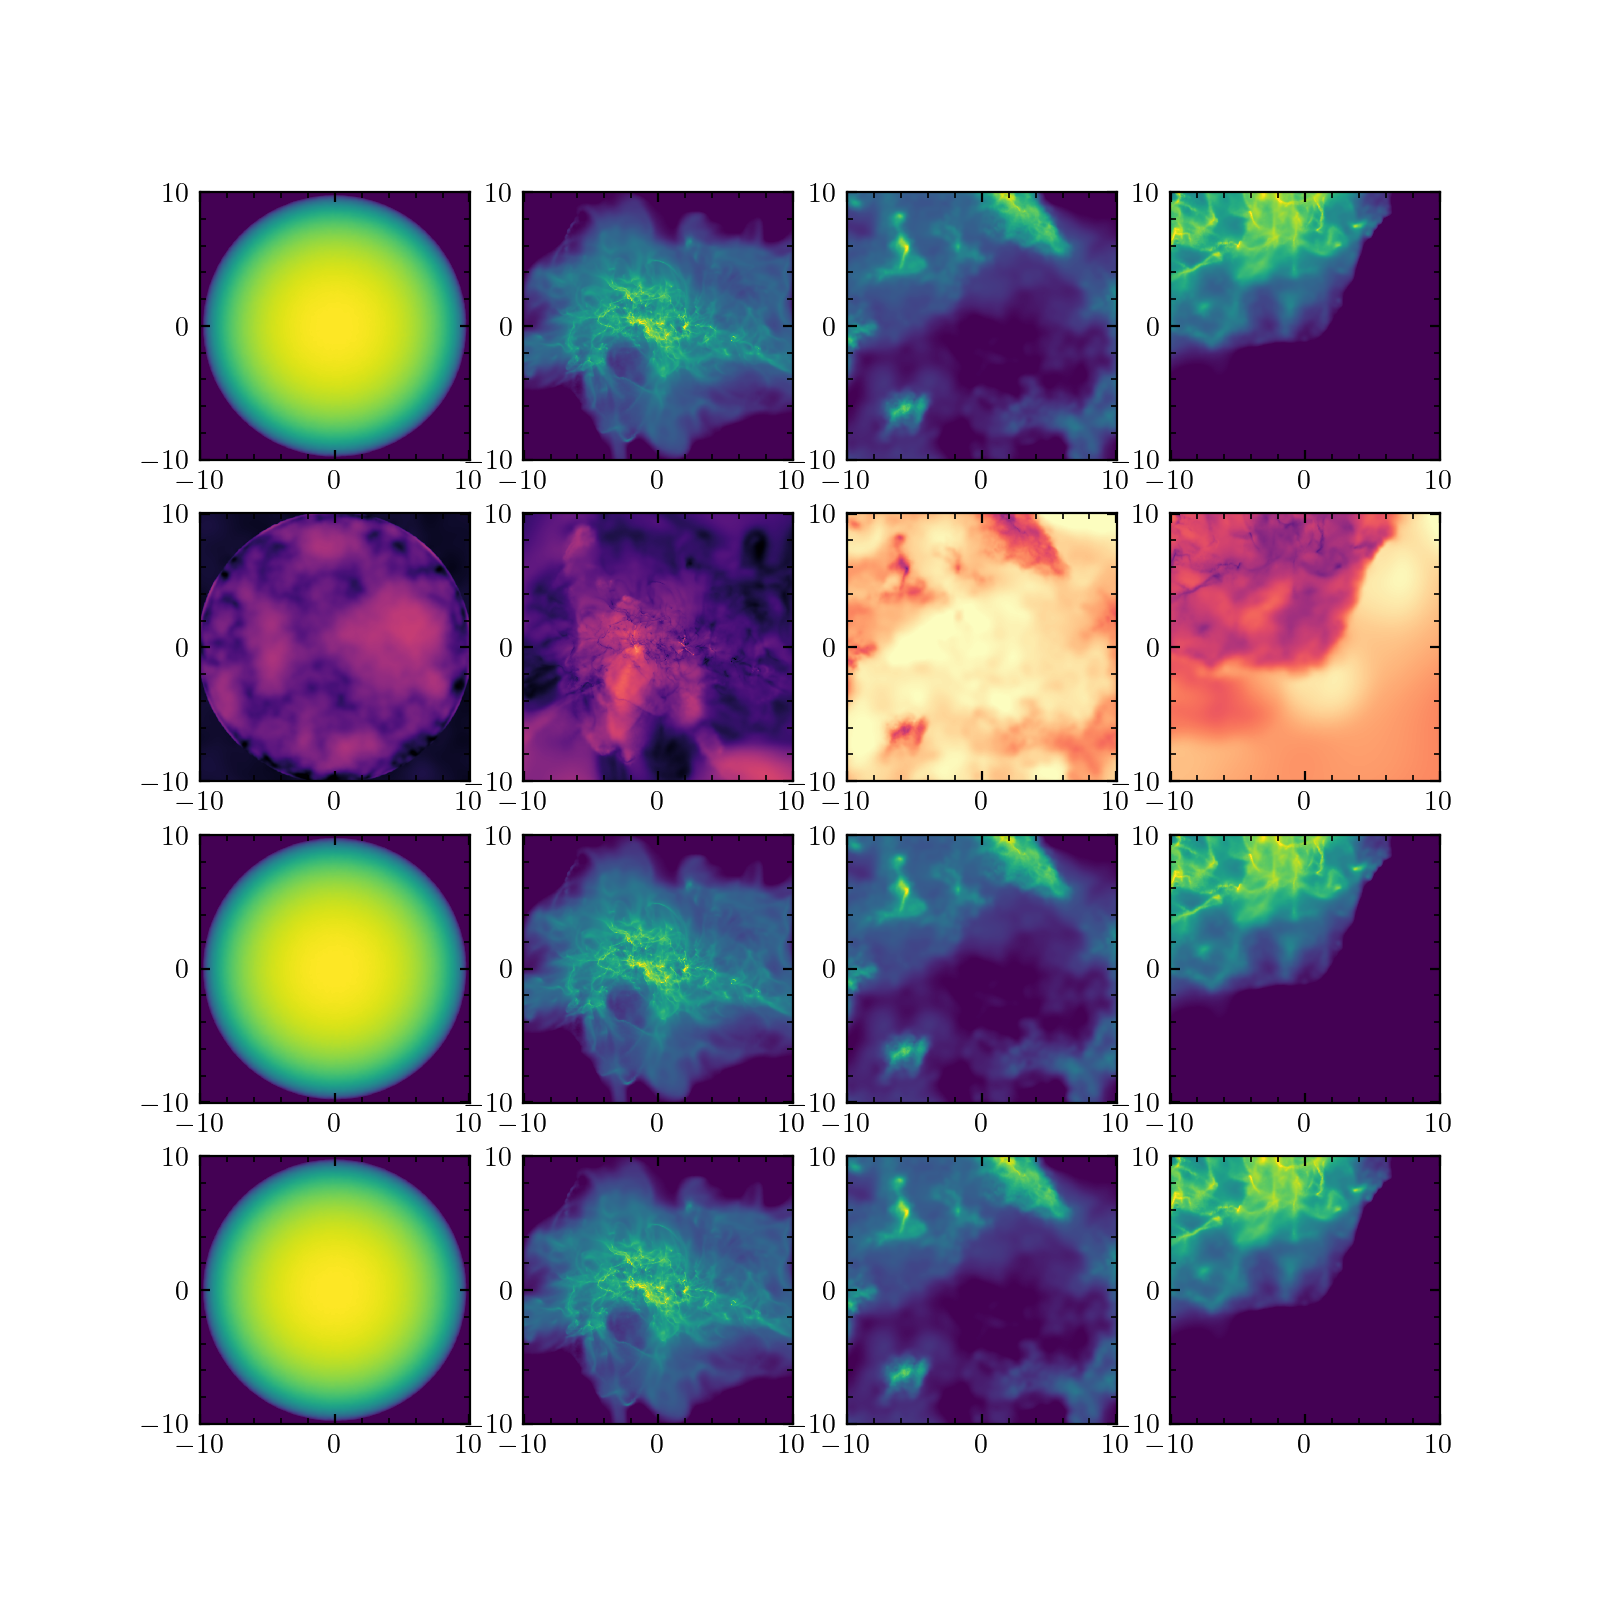
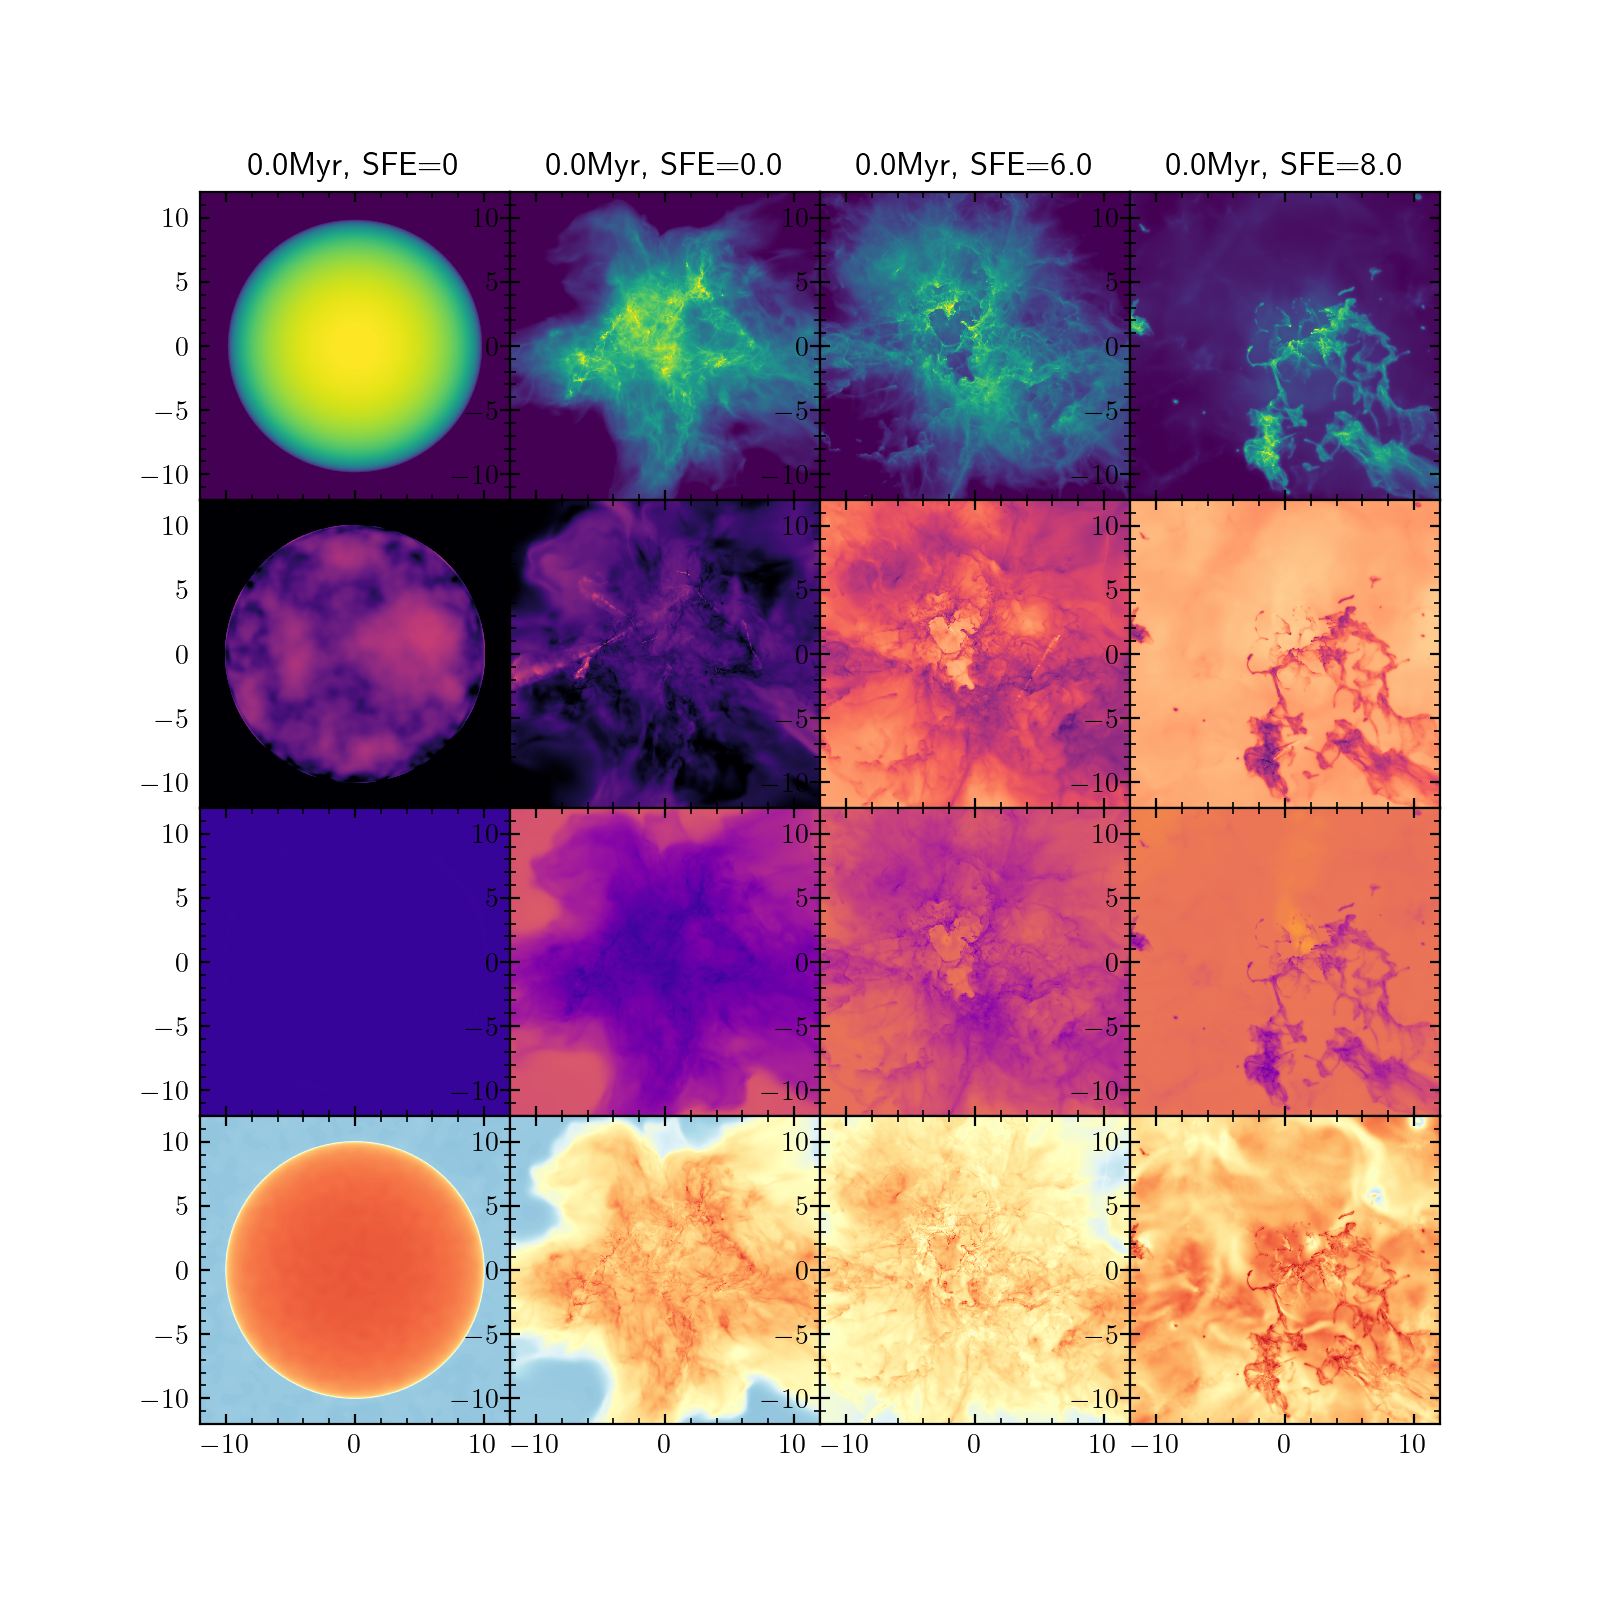
multipanel

diff --git a/src/starforge_tools/plots/multipanel.py b/src/starforge_tools/plots/multipanel.py
@@ -16,20 +16,13 @@ import rendermaps
 
 DEFAULT_MAPS = ("SurfaceDensity", "VelocityDispersion", "MassWeightedTemperature", "AlfvenSpeed")
 
-# MINIMAL_DATAFIELDS = set(("PartType0/Masses", "PartType0/Coordinates", "PartType0/SmoothingLength"))
-# REQUIRED_DATAFIELDS = {
-# "SurfaceDensity": MINIMAL_DATAFIELDS,
-# "VelocityDispersion": MINIMAL_DATAFIELDS.union(("PartType0/Velocities",)),
-# "MassWeightedTemperature": MINIMAL_DATAFIELDS.union(("PartType0/Temperature",)),
-# "AlfvenSpeed": MINIMAL_DATAFIELDS.union(("PartType0/MagneticField", "PartType0/Density")),
-# }
-
 
 def get_pdata_for_maps(snapshot_path: str, maps=DEFAULT_MAPS) -> dict:
     """Does the I/O to get the data required for the specified maps"""
     required_data = set.union(*[getattr(rendermaps, s).required_datafields for s in maps])
     snapdata = {}
     with h5py.File(snapshot_path, "r") as F:
+        snapdata["Header"] = dict(F["Header"].attrs)
         for i in range(6):
             s = f"PartType{i}"
             if s not in F.keys():
@@ -51,7 +44,6 @@ def get_snapshot_units(F):
 
 
 def get_snapshot_timeline(output_dir, verbose=False):
-    print(output_dir)
     times = []
     snappaths = []
     if verbose:
@@ -77,31 +69,41 @@ def get_snapshot_timeline(output_dir, verbose=False):
     return np.array(snappaths), np.array(times) * (units["Length"] / units["Speed"]).to(u.Myr)
 
 
-def multipanel_timelapse_map(output_dir=".", maps=DEFAULT_MAPS, times=4, res=1024, length=20):
+def multipanel_timelapse_map(output_dir=".", maps=DEFAULT_MAPS, times=4, res=2048, box_frac=0.24):
     snappaths, snaptimes = get_snapshot_timeline(output_dir)
 
     if isinstance(times, int):  # if we specified an integer number of times, assume evenly-spaced
         snaps = snappaths[:: len(snappaths) // (times - 1)]
         times = snaptimes[:: len(snaptimes) // (times - 1)]
     elif len(times):  # eventually implement nearest-neighbor snapshots of specified times
-        _, ngb_idx = KDTree(np.c_[snaptimes]).query(np.c_[times])
+        ngb_time, ngb_idx = KDTree(np.c_[snaptimes]).query(np.c_[times])
+        times = ngb_time
         snaps = snappaths[ngb_idx]
     else:
         raise NotImplementedError("Format not recognized for supplied times for multipanel map.")
 
     num_maps, num_times = len(maps), len(times)
     fig, ax = plt.subplots(num_maps, num_times, figsize=(8, 8))
-    mapargs = {"size": length, "res": res}
-    X, Y = 2 * [np.linspace(-0.5 * length, 0.5 * length, res)]
     for i in range(len(times)):
         pdata = get_pdata_for_maps(snaps[i], maps)
+        boxsize = pdata["Header"]["BoxSize"]
+        length = boxsize * box_frac
+        mapargs = {"size": length, "res": res}
+        X, Y = 2 * [np.linspace(-0.5 * length, 0.5 * length, res)]
+        if "PartType5/Masses" in pdata:
+            SFE = pdata["PartType5/Masses"].sum() / (0.8 * pdata["PartType0/Masses"].sum())
+        else:
+            SFE = 0
+        ax[0, i].set(title=f"{round(times[i],1)}Myr, SFE={round(SFE*100,0)}\%")
         renderer = MapRenderer(pdata, mapargs)
         for j, mapname in enumerate(maps):
+            axes = ax[j, i]
             render = renderer.get_render(mapname)
             limits = renderer.limits[mapname]
             cmap = renderer.cmap[mapname]
-            ax[j, i].pcolormesh(X, Y, render, norm=colors.LogNorm(*limits), cmap=cmap)
+            axes.pcolormesh(X, Y, render, norm=colors.LogNorm(*limits), cmap=cmap)
 
+    fig.subplots_adjust(hspace=-0.0, wspace=0)
     plt.savefig("multipanel.png")
 
 

diff --git a/src/starforge_tools/plots/rendermaps/AlfvenSpeed.py b/src/starforge_tools/plots/rendermaps/AlfvenSpeed.py
@@ -15,10 +15,13 @@ colormap = "RdYlBu"
 
 # function called render that makes the actual map from particle data, a meshoid constructed from the data, and arguments to meshoid rendering functions
 def render(pdata: dict, meshoid: Meshoid, mapargs: dict):
+    pos = pdata["PartType0/Coordinates"]
+    boxsize = pdata["Header"]["BoxSize"]
+    cut = np.abs(pos[:, 2] - 0.5 * boxsize) < 100 * 0.15 * boxsize
     Bsqr = np.sum(pdata["PartType0/MagneticField"] ** 2, axis=1)
-    tesla2_to_egydens = 5.88e24  # 1/(2 mu0) in our stupid units
-    sigma_Emag = meshoid.Projection(Bsqr * tesla2_to_egydens, **mapargs)
-    sigma = meshoid.SurfaceDensity(pdata["PartType0/Masses"], **mapargs)
+    tesla2_to_egydens = 5.88e18  # 1/(2 mu0) in our units
+    sigma_Emag = meshoid.Projection((Bsqr * tesla2_to_egydens) * cut, **mapargs)
+    sigma = meshoid.SurfaceDensity(pdata["PartType0/Masses"] * cut, **mapargs)
     return np.sqrt(2 * sigma_Emag / sigma)
 
 
